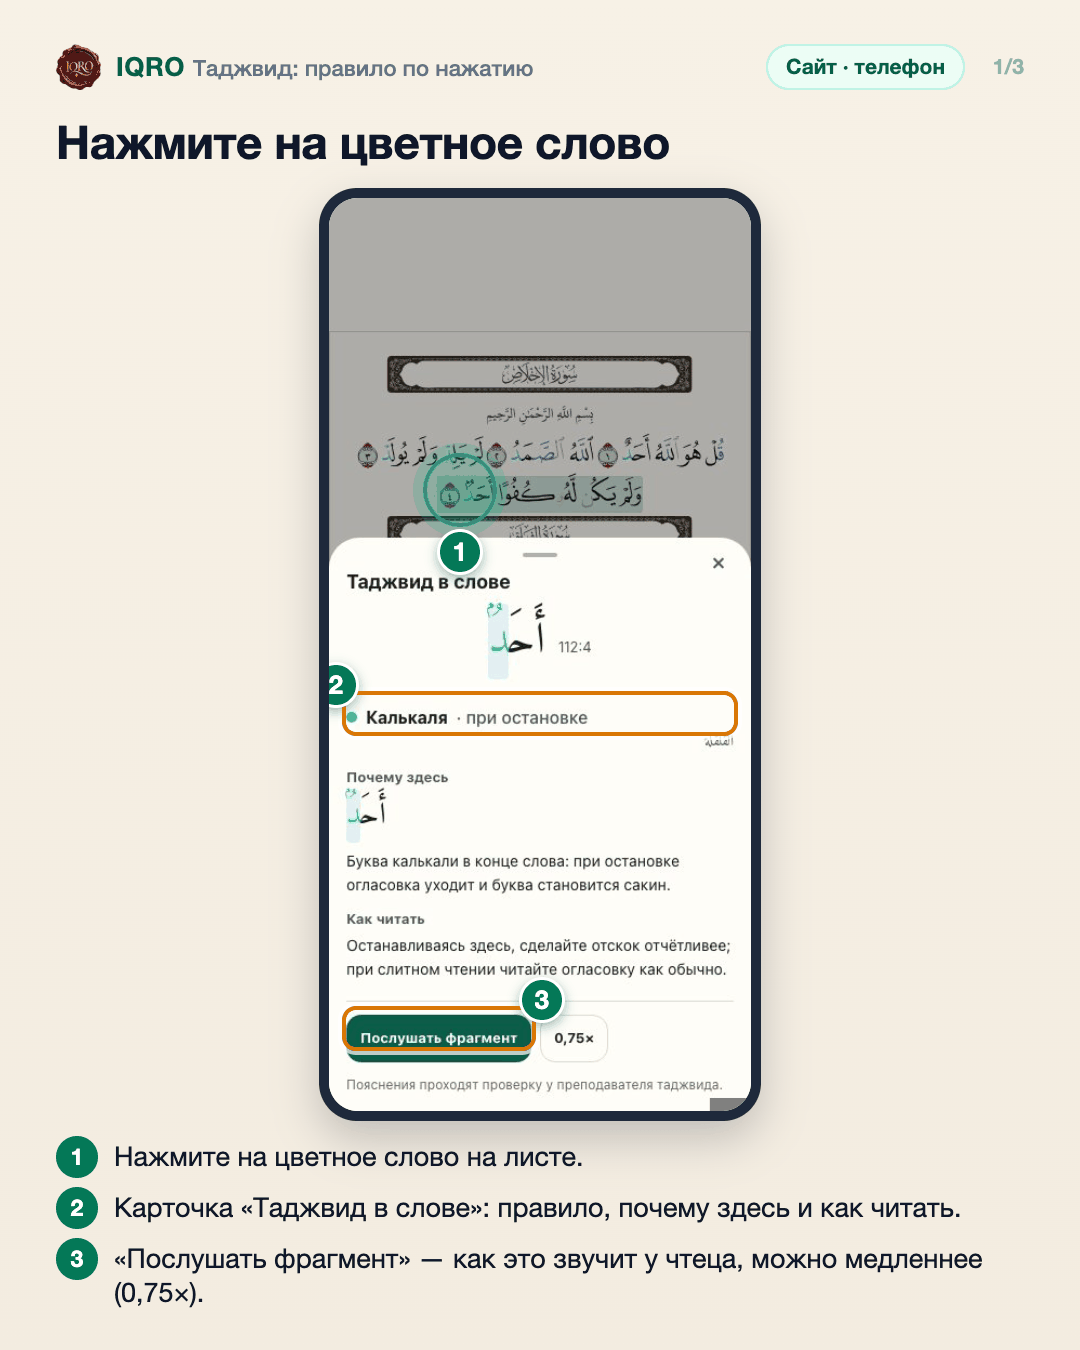
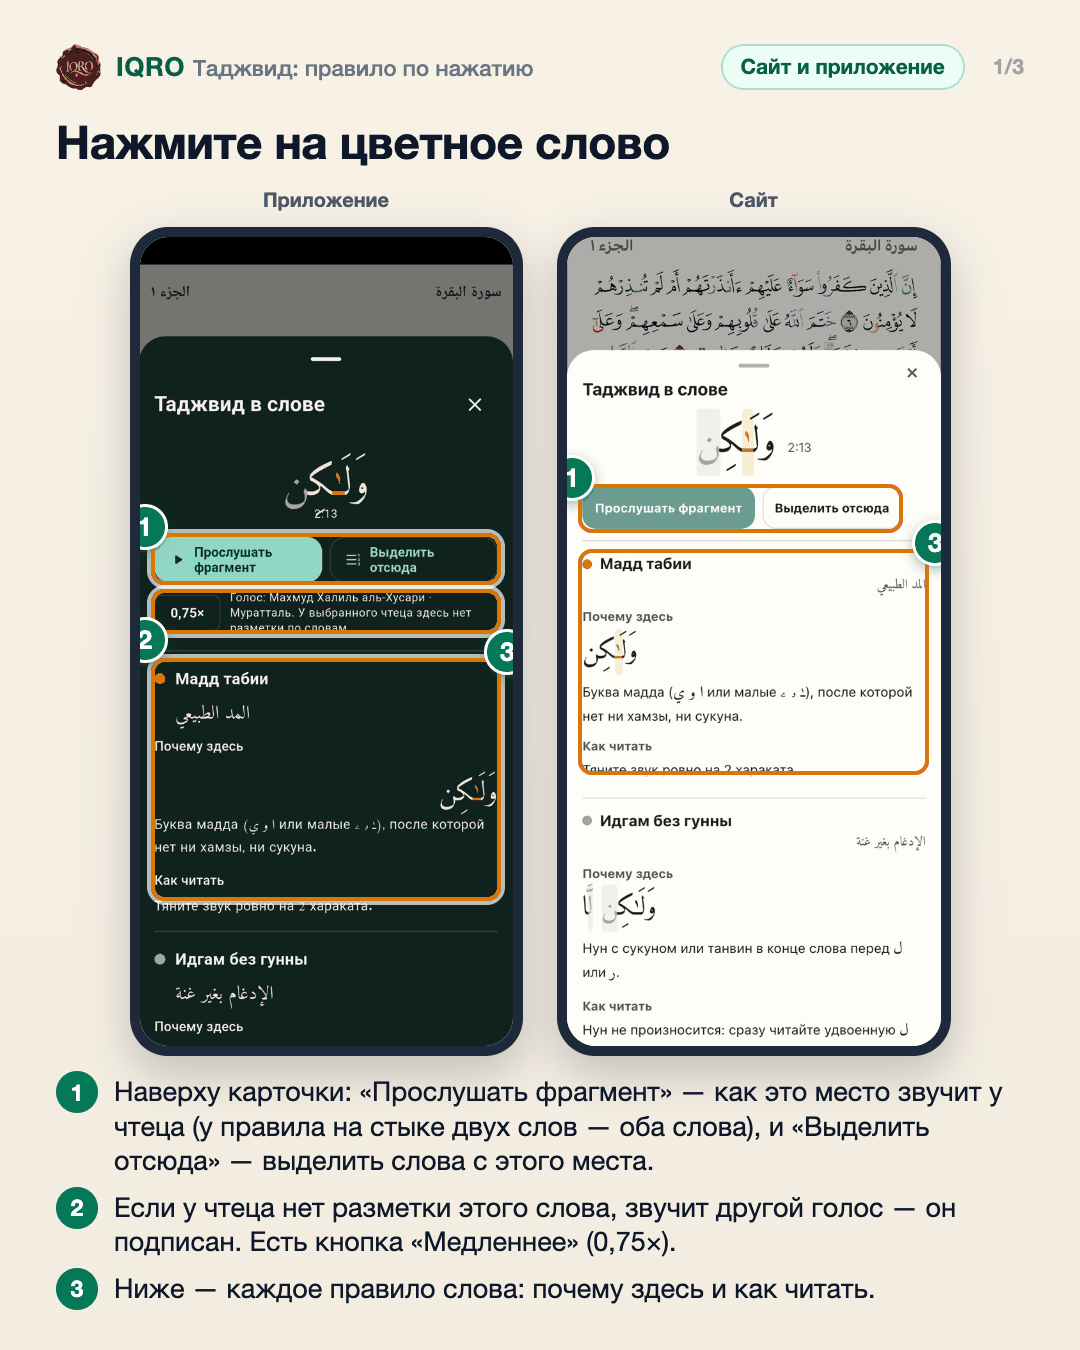
docs: tajweed guide shows listen and Select from here at the top of the card

diff --git a/docs/guides/tajweed-rules/README.md b/docs/guides/tajweed-rules/README.md
@@ -10,7 +10,7 @@
 
 ![Нажмите на цветное слово](1-tap-word.png)
 
-Цвет букв подсказывает правило таджвида. Нажмите на цветное слово — снизу откроется карточка «Таджвид в слове»: название правила, почему оно действует именно здесь и как читать. Кнопка «Послушать фрагмент» проигрывает это место голосом чтеца.
+Цвет букв подсказывает правило таджвида. Нажмите на цветное слово — откроется карточка «Таджвид в слове». Сразу под словом — «Прослушать фрагмент» и «Выделить отсюда», ниже — каждое правило: почему оно здесь и как читать.
 
 ## Правила этой страницы
 
@@ -22,8 +22,8 @@
 
 ![На компьютере — окно с правилами](3-site-desktop.png)
 
-В одном слове бывает несколько правил — карточка покажет все: здесь «Идгам без гунны» и «Мадд таби‘и». Пояснения проходят проверку у преподавателя таджвида.
+На компьютере карточка открывается окном посреди экрана. В одном слове бывает несколько правил — карточка покажет все. Пояснения проходят проверку у преподавателя таджвида.
 
 ---
 
-Основа снимков: снимки сессии таджвида (октябрь 2026) из общей папки заметок.
+Основа снимков: Redmi Note 7 (IQRO тест, сборка из main) и сайт iqro.forum — телефон 390×844 и компьютер 1280×800, 4 ноября 2026.
